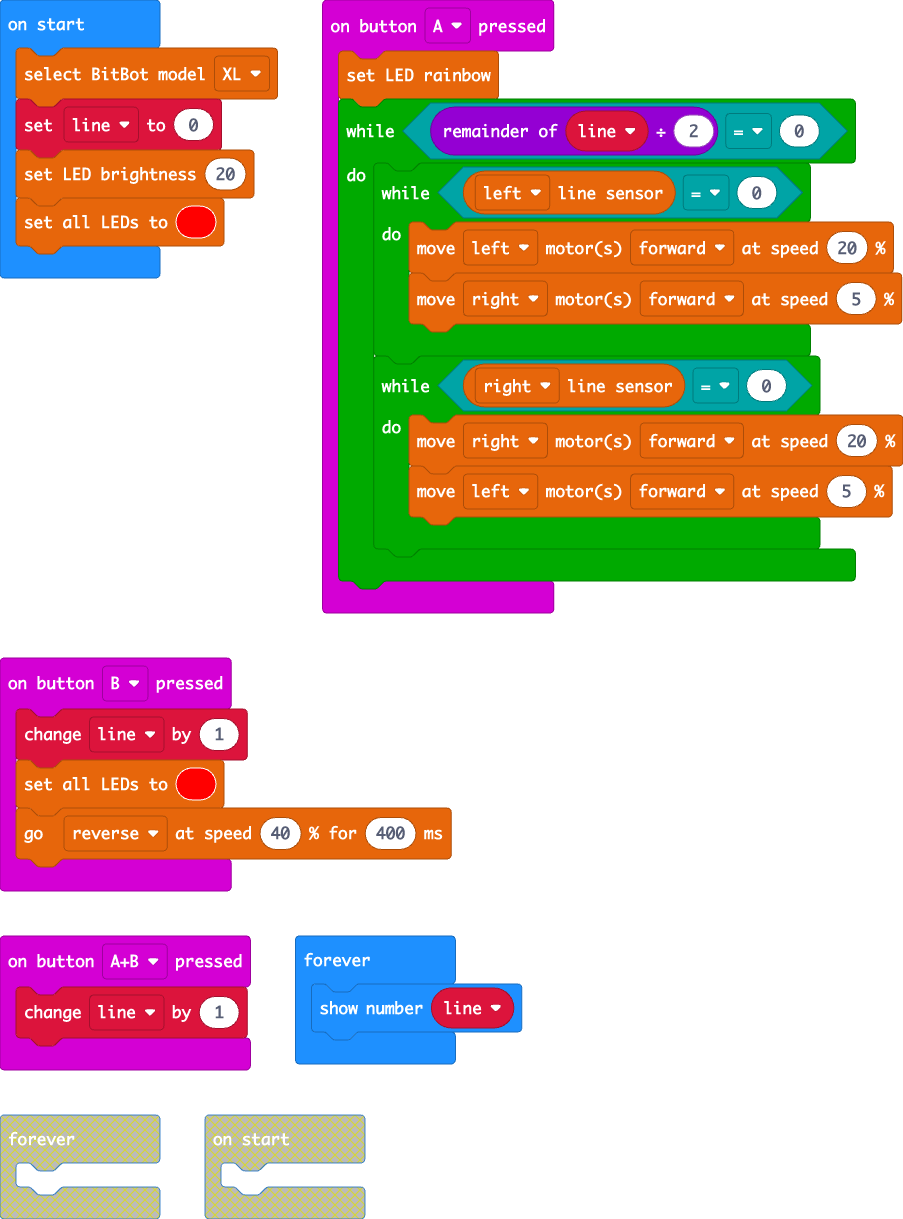
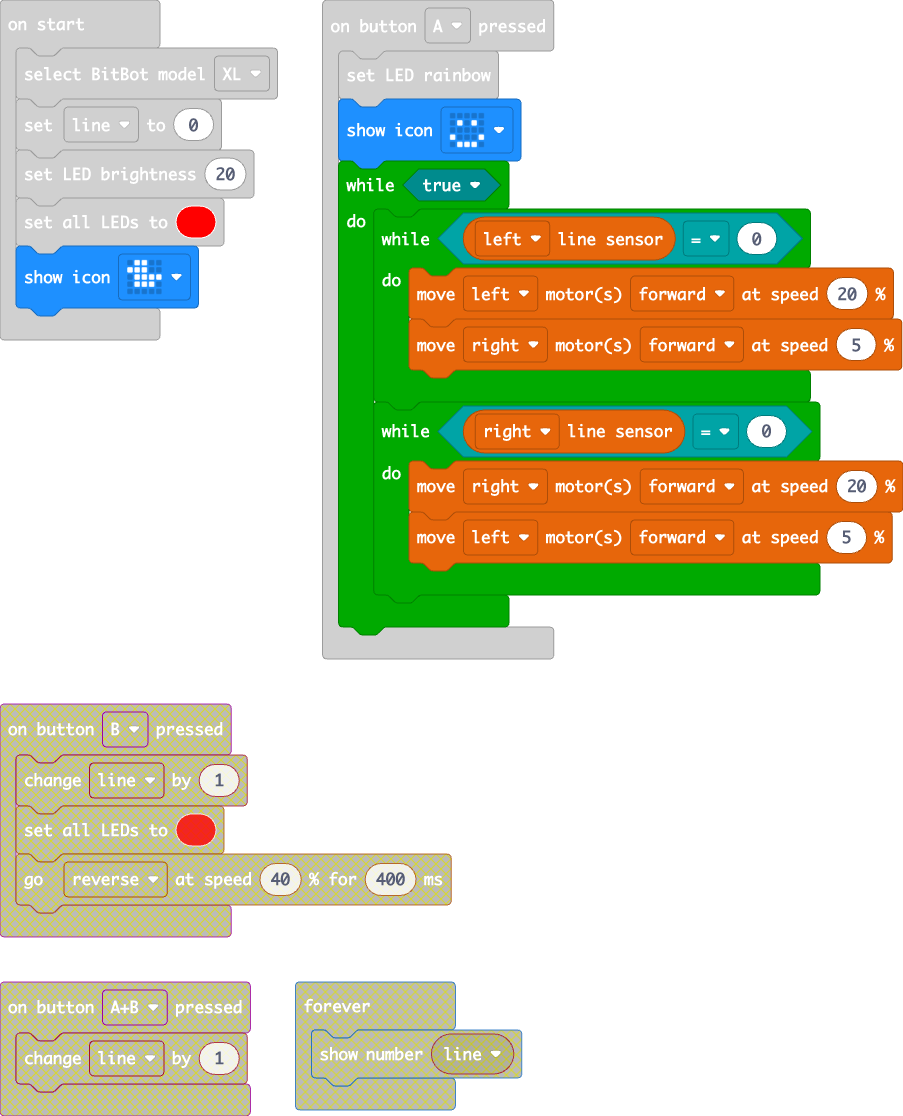
Update pxt.json, main.blocks, main.ts

diff --git a/main.ts b/main.ts
@@ -1,6 +1,7 @@
 input.onButtonPressed(Button.A, function () {
     bitbot.ledRainbow()
-    while (line % 2 == 0) {
+    basic.showIcon(IconNames.Happy)
+    while (true) {
         while (bitbot.readLine(BBLineSensor.Left) == 0) {
             bitbot.move(BBMotor.Left, BBDirection.Forward, 20)
             bitbot.move(BBMotor.Right, BBDirection.Forward, 5)
@@ -11,19 +12,8 @@ input.onButtonPressed(Button.A, function () {
         }
     }
 })
-input.onButtonPressed(Button.AB, function () {
-    line += 1
-})
-input.onButtonPressed(Button.B, function () {
-    line += 1
-    bitbot.setLedColor(0xFF0000)
-    bitbot.goms(BBDirection.Reverse, 40, 400)
-})
-let line = 0
 bitbot.select_model(BBModel.XL)
-line = 0
+let line = 0
 bitbot.ledBrightness(20)
 bitbot.setLedColor(0xFF0000)
-basic.forever(function () {
-    basic.showNumber(line)
-})
+basic.showIcon(IconNames.Duck)
